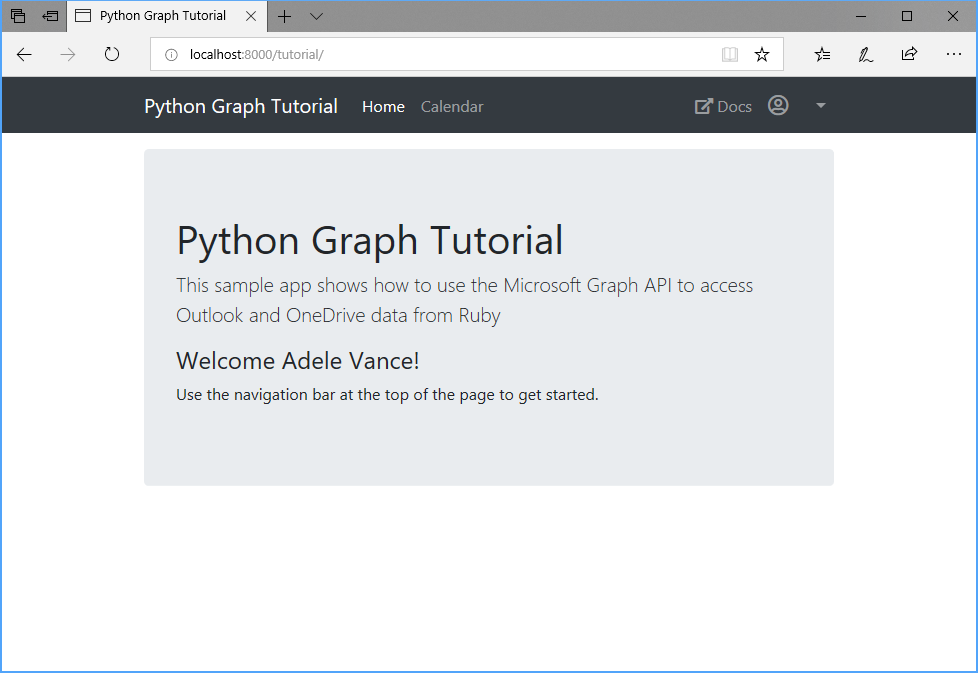
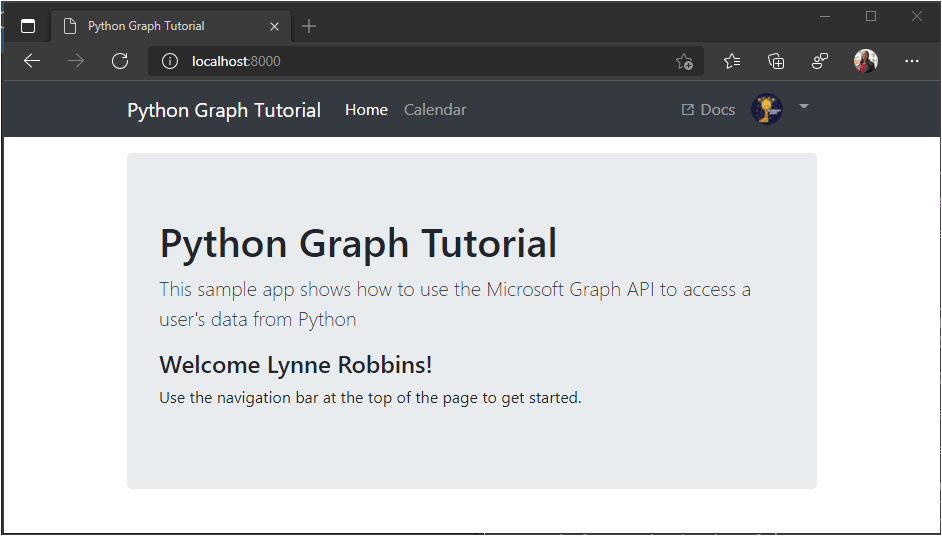
Completed add AAD auth step

diff --git a/demo/graph_tutorial/tutorial/templates/tutorial/layout.html b/demo/graph_tutorial/tutorial/templates/tutorial/layout.html
@@ -45,7 +45,7 @@
             </li>
             {% if user.is_authenticated %}
               <li class="nav-item dropdown">
-                <a class="nav-link dropdown-toggle" data-toggle="dropdown" href="#" role="button" aria-haspopup="true" aria-expanded="false">
+                <a class="nav-link avatar-link dropdown-toggle" data-toggle="dropdown" href="#" role="button" aria-haspopup="true" aria-expanded="false">
                   {% if user.avatar %}
                     <img src="{{ user.avatar }}" class="rounded-circle align-self-center mr-2" style="width: 32px;">
                   {% else %}

diff --git a/demo/graph_tutorial/tutorial/static/tutorial/app.css b/demo/graph_tutorial/tutorial/static/tutorial/app.css
@@ -11,3 +11,8 @@ body {
 .external-link {
   padding-top: 6px;
 }
+
+.avatar-link {
+  padding-top: 4px;
+  padding-bottom: 4px;
+}

diff --git a/demo/graph_tutorial/tutorial/auth_helper.py b/demo/graph_tutorial/tutorial/auth_helper.py
@@ -1,0 +1,77 @@
+# Copyright (c) Microsoft Corporation.
+# Licensed under the MIT License.
+
+# <FirstCodeSnippet>
+import yaml
+import msal
+import os
+import time
+
+# This is necessary for testing with non-HTTPS localhost
+# Remove this if deploying to production
+#os.environ['OAUTHLIB_INSECURE_TRANSPORT'] = '1'
+
+# This is necessary because Azure does not guarantee
+# to return scopes in the same case and order as requested
+#os.environ['OAUTHLIB_RELAX_TOKEN_SCOPE'] = '1'
+#os.environ['OAUTHLIB_IGNORE_SCOPE_CHANGE'] = '1'
+
+# Load the oauth_settings.yml file
+stream = open('oauth_settings.yml', 'r')
+settings = yaml.load(stream, yaml.SafeLoader)
+authorize_url = '{0}{1}'.format(settings['authority'], settings['authorize_endpoint'])
+token_url = '{0}{1}'.format(settings['authority'], settings['token_endpoint'])
+
+def get_msal_app():
+  # Initialize the MSAL confidential client
+  auth_app = msal.ConfidentialClientApplication(
+    settings['app_id'],
+    authority=settings['authority'],
+    client_credential=settings['app_secret'])
+
+  return auth_app
+
+# Method to generate a sign-in flow
+def get_sign_in_flow():
+  auth_app = get_msal_app()
+
+  return auth_app.initiate_auth_code_flow(
+    settings['scopes'],
+    redirect_uri=settings['redirect'])
+
+# Method to exchange auth code for access token
+def get_token_from_code(flow, query):
+  auth_app = get_msal_app()
+
+  return auth_app.acquire_token_by_auth_code_flow(flow, query)
+# </FirstCodeSnippet>
+
+# <SecondCodeSnippet>
+def store_user(request, user):
+  request.session['user'] = {
+    'is_authenticated': True,
+    'name': user['displayName'],
+    'email': user['mail'] if (user['mail'] != None) else user['userPrincipalName'],
+    'timeZone': user['mailboxSettings']['timeZone']
+  }
+
+def get_token():
+  auth_app = get_msal_app()
+
+  accounts = auth_app.get_accounts()
+  if accounts:
+    print(format(accounts))
+    result = auth_app.acquire_token_silent(
+      settings['scopes'],
+      account=accounts[0])
+
+    print(result)
+
+    return result['access_token']
+
+def remove_user_and_token(request):
+  auth_app = get_msal_app()
+
+  if 'user' in request.session:
+    del request.session['user']
+# </SecondCodeSnippet>

diff --git a/demo/graph_tutorial/tutorial/views.py b/demo/graph_tutorial/tutorial/views.py
@@ -1,5 +1,8 @@
 from django.shortcuts import render
 from django.http import HttpResponse, HttpResponseRedirect
+from django.urls import reverse
+from tutorial.auth_helper import get_sign_in_flow, get_token_from_code, store_user, remove_user_and_token, get_token
+from tutorial.graph_helper import get_user
 
 # <HomeViewSnippet>
 def home(request):
@@ -23,3 +26,36 @@ def initialize_context(request):
   context['user'] = request.session.get('user', {'is_authenticated': False})
   return context
 # </InitializeContextSnippet>
+
+# <SignInViewSnippet>
+def sign_in(request):
+  # Get the sign-in flow
+  flow = get_sign_in_flow()
+  # Save the expected flow so we can use it in the callback
+  request.session['auth_flow'] = flow
+  # Redirect to the Azure sign-in page
+  return HttpResponseRedirect(flow['auth_uri'])
+# </SignInViewSnippet>
+
+# <SignOutViewSnippet>
+def sign_out(request):
+  # Clear out the user and token
+  remove_user_and_token(request)
+
+  return HttpResponseRedirect(reverse('home'))
+# </SignOutViewSnippet>
+
+# <CallbackViewSnippet>
+def callback(request):
+  # Get the flow saved in session
+  flow = request.session.pop('auth_flow', {})
+  # Make the token request
+  result = get_token_from_code(flow, request.GET)
+
+  #Get the user's profile
+  user = get_user(result['access_token'])
+
+  # Store user
+  store_user(request, user)
+  return HttpResponseRedirect(reverse('home'))
+# </CallbackViewSnippet>

diff --git a/demo/graph_tutorial/tutorial/graph_helper.py b/demo/graph_tutorial/tutorial/graph_helper.py
@@ -1,0 +1,21 @@
+# Copyright (c) Microsoft Corporation.
+# Licensed under the MIT License.
+
+# <FirstCodeSnippet>
+import requests
+
+graph_url = 'https://graph.microsoft.com/v1.0'
+
+def get_user(token):
+  # Send GET to /me
+  user = requests.get(
+    '{0}/me'.format(graph_url),
+    headers={
+      'Authorization': 'Bearer {0}'.format(token)
+    },
+    params={
+      '$select': 'displayName,mail,mailboxSettings,userPrincipalName'
+    })
+  # Return the JSON result
+  return user.json()
+# </FirstCodeSnippet>

diff --git a/demo/graph_tutorial/tutorial/urls.py b/demo/graph_tutorial/tutorial/urls.py
@@ -9,7 +9,8 @@ urlpatterns = [
   # /
   path('', views.home, name='home'),
   # TEMPORARY
-  path('signin', views.home, name='signin'),
-  path('signout', views.home, name='signout'),
+  path('signin', views.sign_in, name='signin'),
+  path('signout', views.sign_out, name='signout'),
   path('calendar', views.home, name='calendar'),
+  path('callback', views.callback, name='callback'),
 ]

diff --git a/tutorial/04-add-aad-auth.md b/tutorial/04-add-aad-auth.md
@@ -17,13 +17,13 @@ In this exercise you will extend the application from the previous exercise to s
 
     :::code language="python" source="../demo/graph_tutorial/tutorial/auth_helper.py" id="FirstCodeSnippet":::
 
-    This file will hold all of your authentication-related methods. The `get_sign_in_url` generates an authorization URL, and the `get_token_from_code` method exchanges the authorization response for an access token.
+    This file will hold all of your authentication-related methods. The `get_sign_in_flow` generates an authorization URL, and the `get_token_from_code` method exchanges the authorization response for an access token.
 
 1. Add the following `import` statements to the top of **./tutorial/views.py**.
 
     ```python
     from django.urls import reverse
-    from tutorial.auth_helper import get_sign_in_url, get_token_from_code
+    from tutorial.auth_helper import get_sign_in_flow, get_token_from_code
     ```
 
 1. Add a sign-in view in the **./tutorial/views.py** file.
@@ -34,20 +34,20 @@ In this exercise you will extend the application from the previous exercise to s
 
     ```python
     def callback(request):
-      # Get the state saved in session
-      expected_state = request.session.pop('auth_state', '')
+      # Get the flow saved in session
+      flow = request.session.pop('auth_flow', {})
       # Make the token request
-      token = get_token_from_code(request.get_full_path(), expected_state)
+      result = get_token_from_code(flow, request.GET)
       # Temporary! Save the response in an error so it's displayed
-      request.session['flash_error'] = { 'message': 'Token retrieved', 'debug': format(token) }
+      request.session['flash_error'] = { 'message': 'Token retrieved', 'debug': format(result) }
       return HttpResponseRedirect(reverse('home'))
     ```
 
     Consider what these views do:
 
-    - The `signin` action generates the Azure AD signin URL, saves the `state` value generated by the OAuth client, then redirects the browser to the Azure AD signin page.
+    - The `signin` action generates the Azure AD signin URL, saves the flow generated by the OAuth client, then redirects the browser to the Azure AD signin page.
 
-    - The `callback` action is where Azure redirects after the signin is complete. That action makes sure the `state` value matches the saved value, then uses the authorization code sent by Azure to request an access token. It then redirects back to the home page with the access token in the temporary error value. You'll use this to verify that our sign-in is working before moving on.
+    - The `callback` action is where Azure redirects after the signin is complete. That action uses the saved flow and the query string sent by Azure to request an access token. It then redirects back to the home page with the response in the temporary error value. You'll use this to verify that our sign-in is working before moving on.
 
 1. Open **./tutorial/urls.py** and replace the existing `path` statements for `signin` with the following.
 
@@ -61,7 +61,7 @@ In this exercise you will extend the application from the previous exercise to s
     path('callback', views.callback, name='callback'),
     ```
 
-1. Start the server and browse to `https://localhost:8000`. Click the sign-in button and you should be redirected to `https://login.microsoftonline.com`. Login with your Microsoft account and consent to the requested permissions. The browser redirects to the app, showing the token.
+1. Start the server and browse to `https://localhost:8000`. Click the sign-in button and you should be redirected to `https://login.microsoftonline.com`. Login with your Microsoft account and consent to the requested permissions. The browser redirects to the app, showing the response, including the access token.
 
 ### Get user details
 
@@ -81,16 +81,15 @@ In this exercise you will extend the application from the previous exercise to s
 
     ```python
     def callback(request):
-      # Get the state saved in session
-      expected_state = request.session.pop('auth_state', '')
+      # Get the flow saved in session
+      flow = request.session.pop('auth_flow', {})
       # Make the token request
-      token = get_token_from_code(request.get_full_path(), expected_state)
+      result = get_token_from_code(flow, request.GET)
 
-      # Get the user's profile
-      user = get_user(token)
+      #Get the user's profile
+      user = get_user(result['access_token'])
       # Temporary! Save the response in an error so it's displayed
-      request.session['flash_error'] = { 'message': 'Token retrieved',
-        'debug': 'User: {0}\nToken: {1}'.format(user, token) }
+      request.session['flash_error'] = { 'message': 'Token retrieved', 'debug': 'User: {0}\nToken: {1}'.format(user, result) }
       return HttpResponseRedirect(reverse('home'))
     ```
 
@@ -102,33 +101,12 @@ Now that you can get tokens, it's time to implement a way to store them in the a
 
 1. Add the following new methods to **./tutorial/auth_helper.py**.
 
-    ```python
-    def store_token(request, token):
-      request.session['oauth_token'] = token
-
-    def store_user(request, user):
-      request.session['user'] = {
-        'is_authenticated': True,
-        'name': user['displayName'],
-        'email': user['mail'] if (user['mail'] != None) else user['userPrincipalName']
-      }
-
-    def get_token(request):
-      token = request.session['oauth_token']
-      return token
-
-    def remove_user_and_token(request):
-      if 'oauth_token' in request.session:
-        del request.session['oauth_token']
-
-      if 'user' in request.session:
-        del request.session['user']
-    ```
+    :::code language="python" source="../demo/graph_tutorial/tutorial/auth_helper.py" id="SecondCodeSnippet":::
 
 1. Update the `callback` function in **./tutorial/views.py** to store the tokens in the session and redirect back to the main page. Replace the `from tutorial.auth_helper import get_sign_in_url, get_token_from_code` line with the following.
 
     ```python
-    from tutorial.auth_helper import get_sign_in_url, get_token_from_code, store_token, store_user, remove_user_and_token, get_token
+    from tutorial.auth_helper import get_sign_in_url, get_token_from_code, store_user, remove_user_and_token, get_token
     ```
 
 1. Replace the `callback` method with the following.
@@ -159,10 +137,6 @@ Now that you can get tokens, it's time to implement a way to store them in the a
 
 At this point your application has an access token, which is sent in the `Authorization` header of API calls. This is the token that allows the app to access the Microsoft Graph on the user's behalf.
 
-However, this token is short-lived. The token expires an hour after it is issued. This is where the refresh token becomes useful. The refresh token allows the app to request a new access token without requiring the user to sign in again. Update the token management code to implement token refresh.
+However, this token is short-lived. The token expires an hour after it is issued. This is where the refresh token becomes useful. The refresh token allows the app to request a new access token without requiring the user to sign in again.
 
-1. Replace the existing `get_token` method in **./tutorial/auth_helper.py** with the following.
-
-    :::code language="python" source="../demo/graph_tutorial/tutorial/auth_helper.py" id="GetTokenSnippet":::
-
-    This method first checks if the access token is expired or close to expiring. If it is, then it uses the refresh token to get new tokens, then updates the cache and returns the new access token.
+Because this sample uses MSAL, you do not have to write any specific code to refresh the token. MSAL's `acquire_token_silent` method handles refreshing the token if needed.
